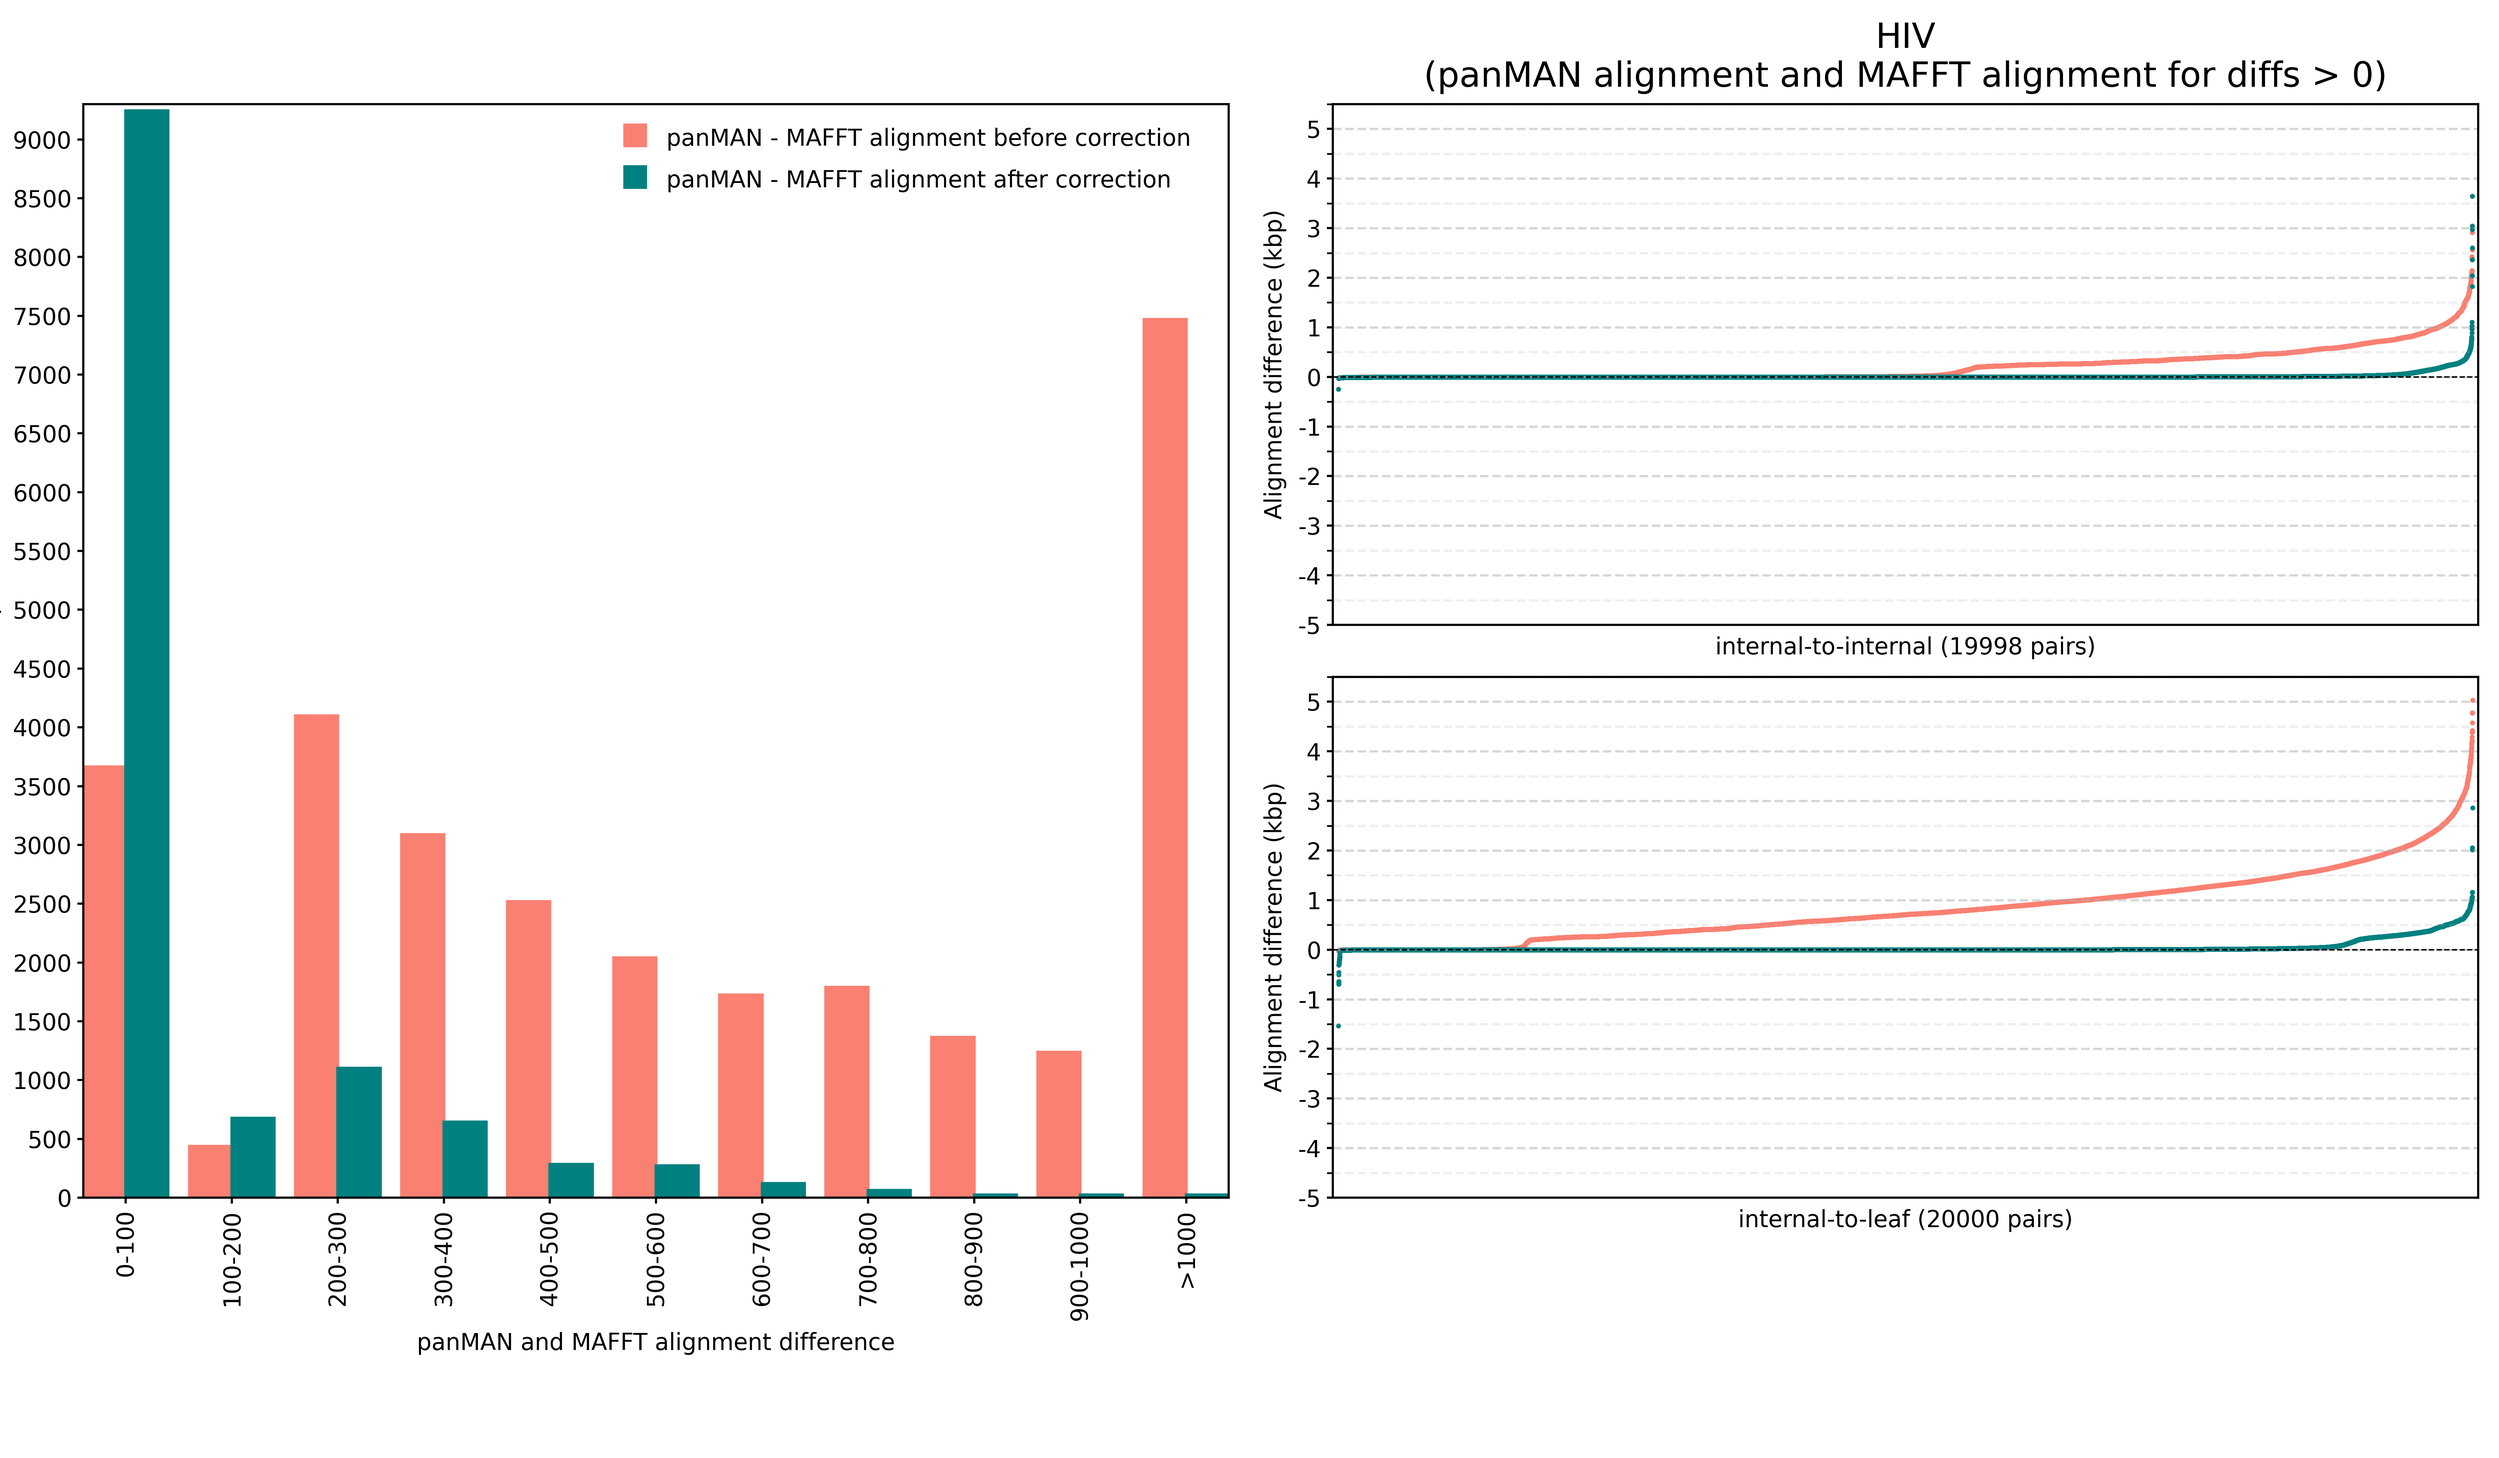
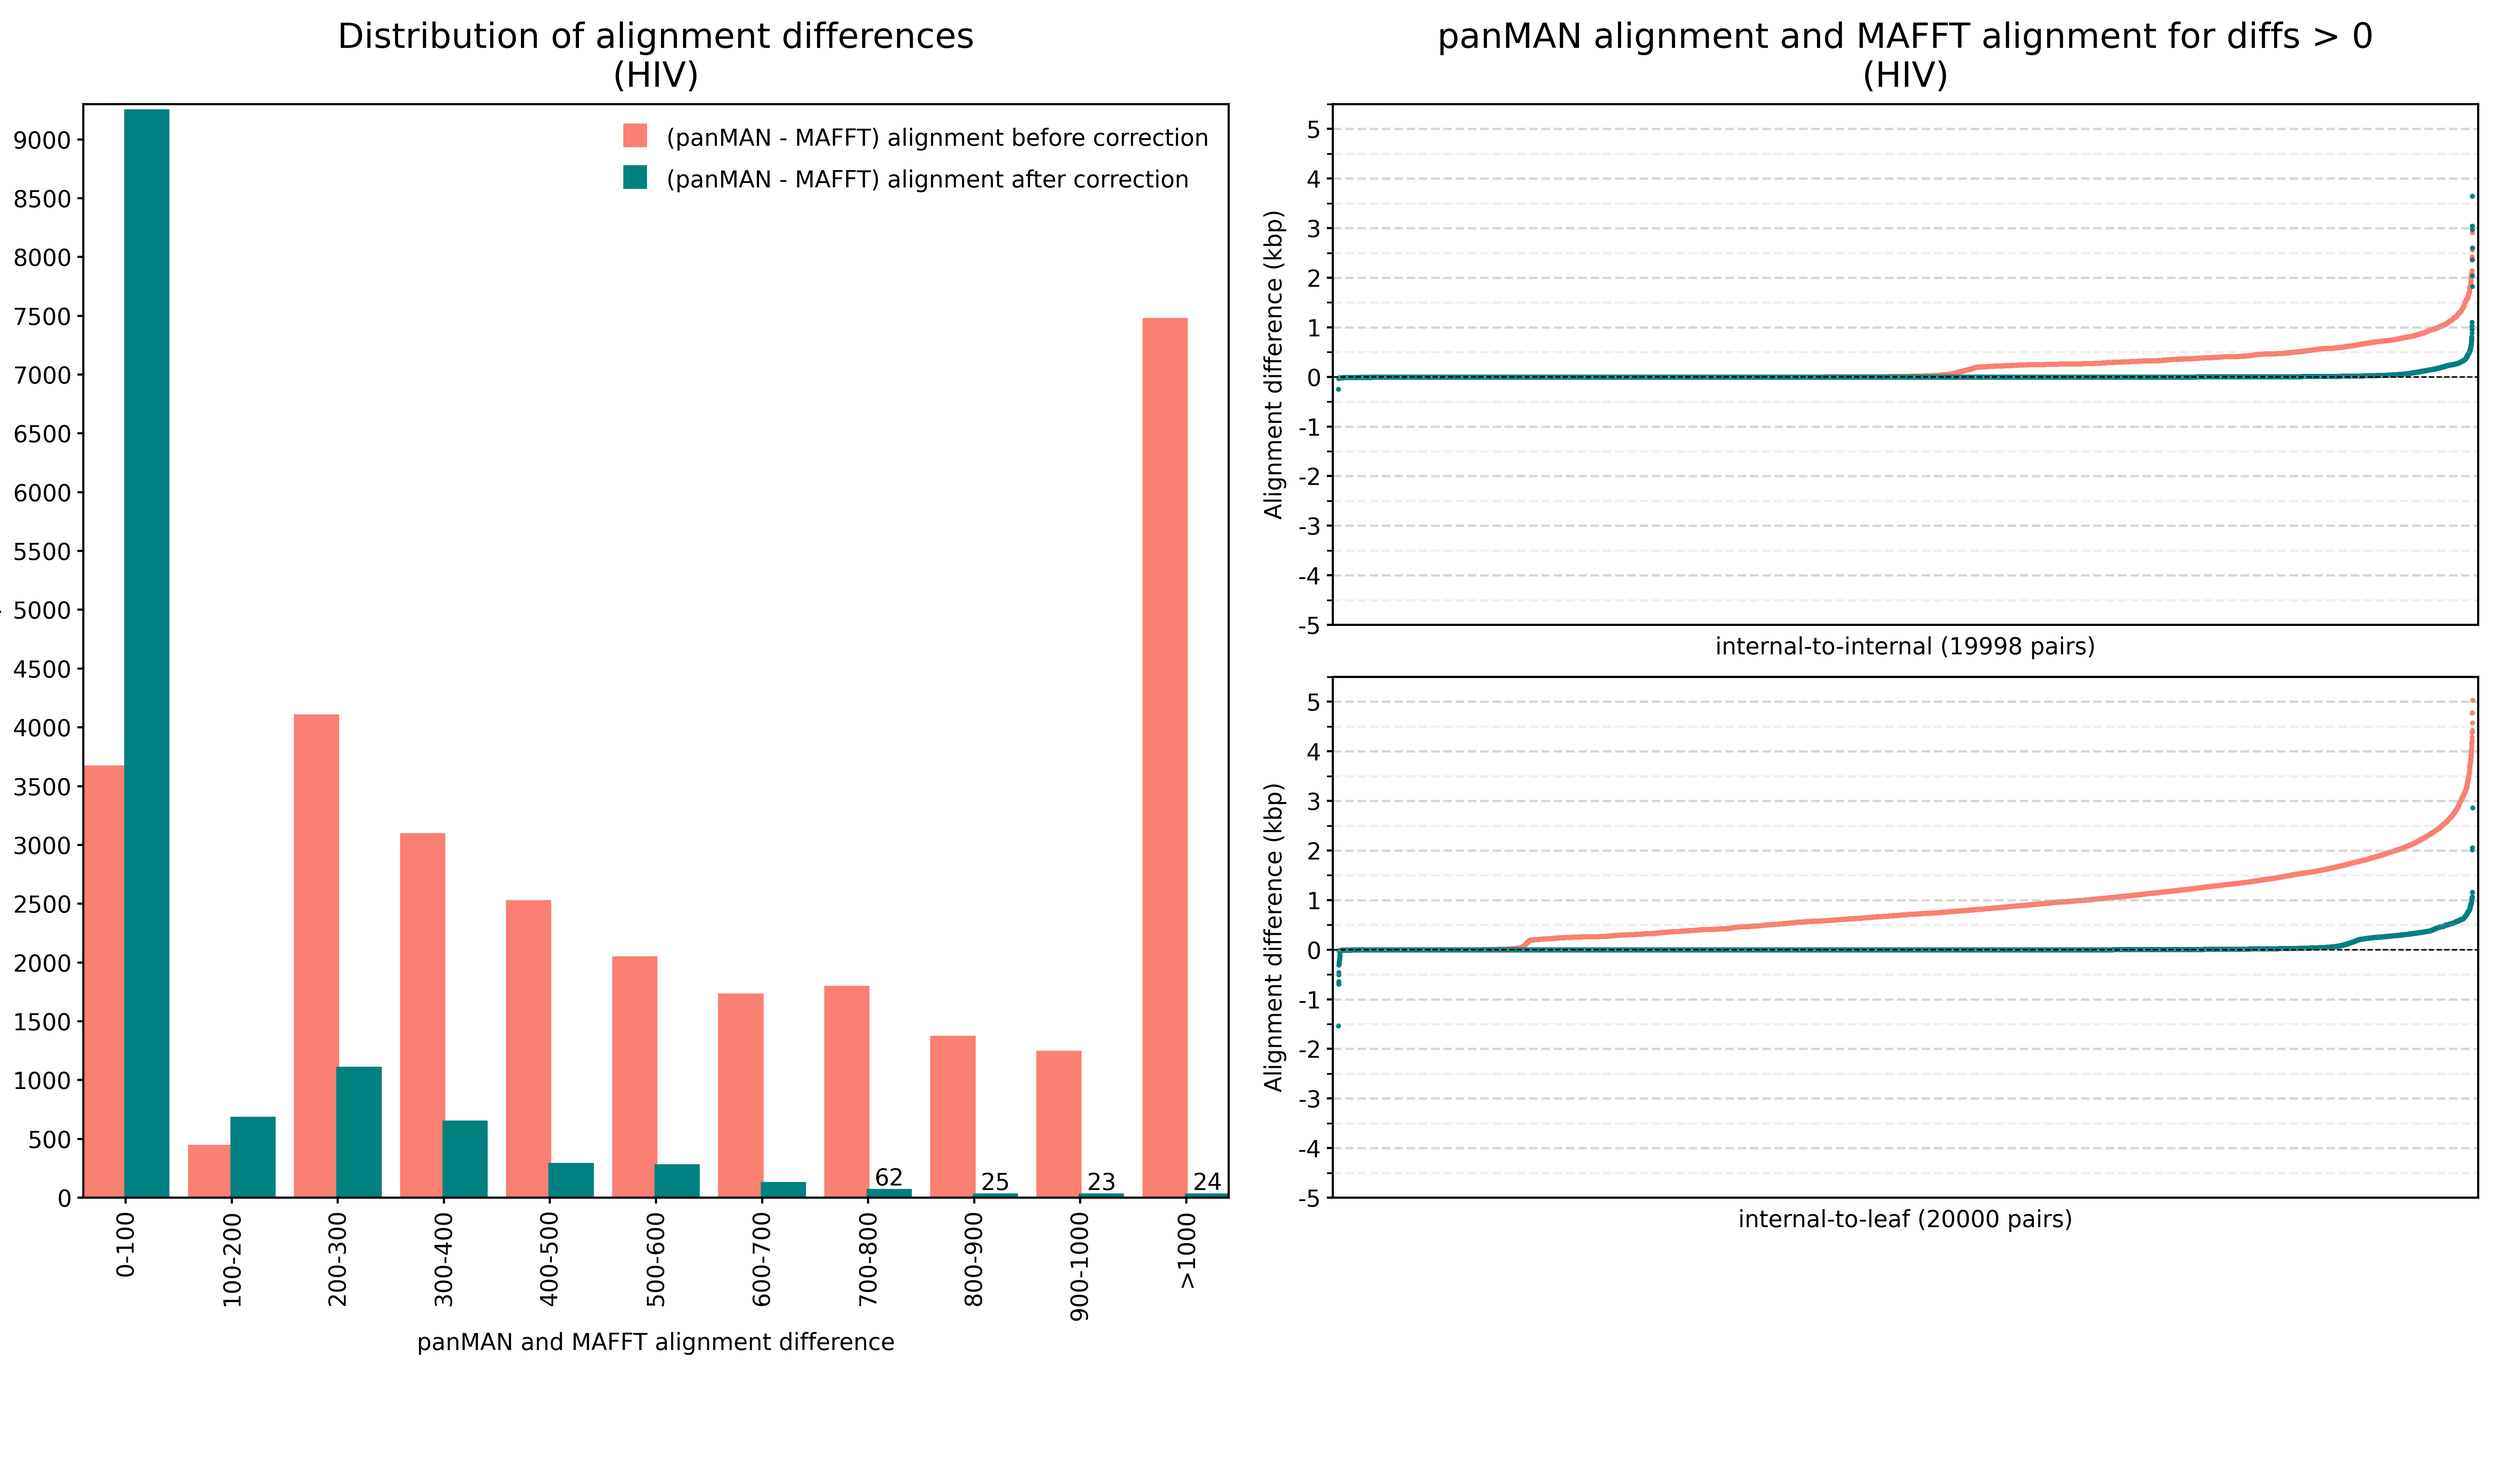
clean

Changed region(s): [[0.5625, 0.0, 0.9375, 0.0624], [0.125, 0.0, 0.375, 0.0624], [0.2812, 0.0936, 0.4688, 0.1248]]

diff --git a/panmania/evaluate_alignments/plot_ma_correct.py b/panmania/evaluate_alignments/plot_ma_correct.py
@@ -114,6 +114,8 @@ for i in range(11):
     diff_distribution_panel.add_patch(
       mplpatches.Rectangle((i + offset, 0), 0.4, diff_bin, color=color)
     )
+    if diff_bin <= 100:
+      diff_distribution_panel.text(i + offset + 0.2, diff_bin, f'{diff_bin}', ha='center', va='bottom')
 x_ticks = []
 x_ticklabels = []
 for i in range(11):
@@ -130,6 +132,7 @@ else:
   diff_distribution_panel.set_yticks([i * 100 for i in range(int(diff_distribution_panel.get_ylim()[1] // 100 + 1))])
 diff_distribution_panel.set_ylabel('Number of pairs')
 diff_distribution_panel.set_xlabel('panMAN and MAFFT alignment difference')
+diff_distribution_panel.set_title(f'Distribution of alignment differences\n({title})', fontsize=12)
 
 ##################
 ## legend panel ##
@@ -148,8 +151,8 @@ legend_panel.add_patch(
 legend_panel.add_patch(
   mplpatches.Rectangle((0.1, 0.1), 0.1, 0.1, color='teal')
 )
-legend_panel.text(0.3, 0.3, 'panMAN - MAFFT alignment before correction', ha='left', va='baseline')
-legend_panel.text(0.3, 0.1, 'panMAN - MAFFT alignment after correction', ha='left', va='baseline')
+legend_panel.text(0.3, 0.3, '(panMAN - MAFFT) alignment before correction', ha='left', va='baseline')
+legend_panel.text(0.3, 0.1, '(panMAN - MAFFT) alignment after correction', ha='left', va='baseline')
 
 legend_panel.axis('off')
 
@@ -175,7 +178,7 @@ for panel, diff_sets, xlabel in zip([internal_to_internal_diff_panel, internal_t
   panel.grid(which='major', alpha=0.5, linestyle='--')
   panel.plot([-100, len(diffs) + 100], [0, 0], color='black', linewidth=0.5, linestyle='--')
 
-internal_to_internal_diff_panel.set_title(f'{title}\n(panMAN alignment and MAFFT alignment for diffs > 0)', fontsize=12)
+internal_to_internal_diff_panel.set_title(f'panMAN alignment and MAFFT alignment for diffs > 0\n({title})', fontsize=12)
 
 internal_to_internal_diff_panel.scatter(
   range(len(internal_to_internal_diffs)),

diff --git a/README.md b/README.md
@@ -194,3 +194,14 @@ With the limited time I have today, I will write up the script for identifying p
 ### panMANIA
 
 Working on quantifying the prevalence of problematic block states
+
+## 2/9/2025
+
+### To-do
+
+- [x] ~~Quantify the prevalence of problematic block states~~
+- [ ] Really do finish formalizing the method for calling consensus.
+
+### panMAMA
+
+### panMANIA
